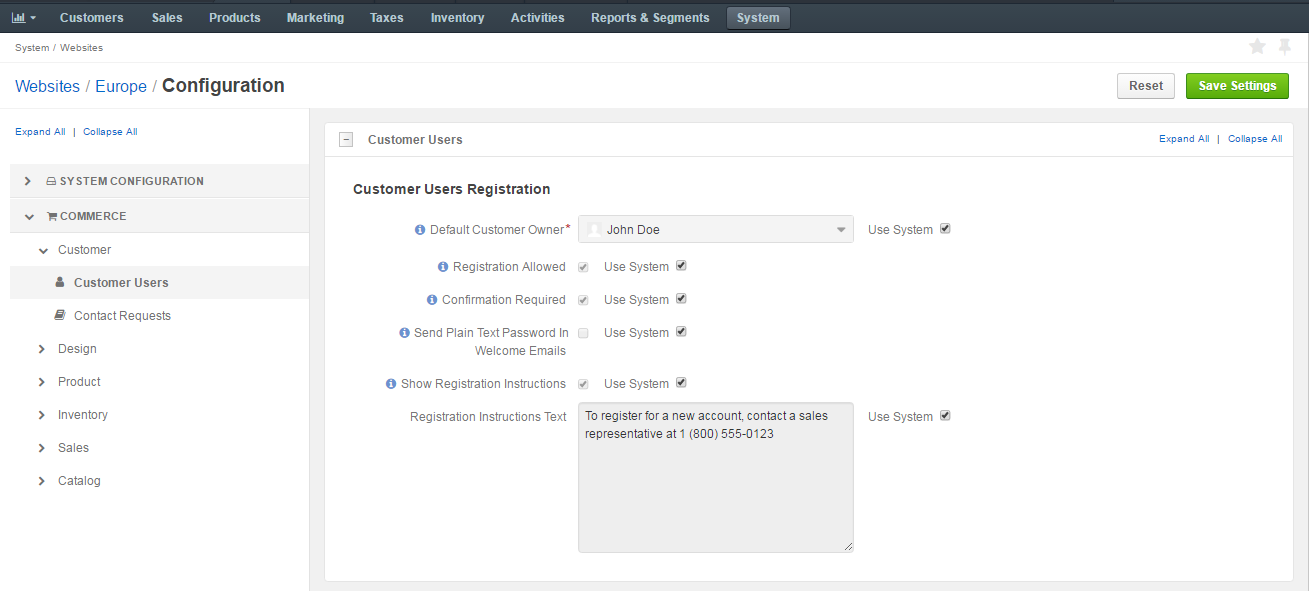
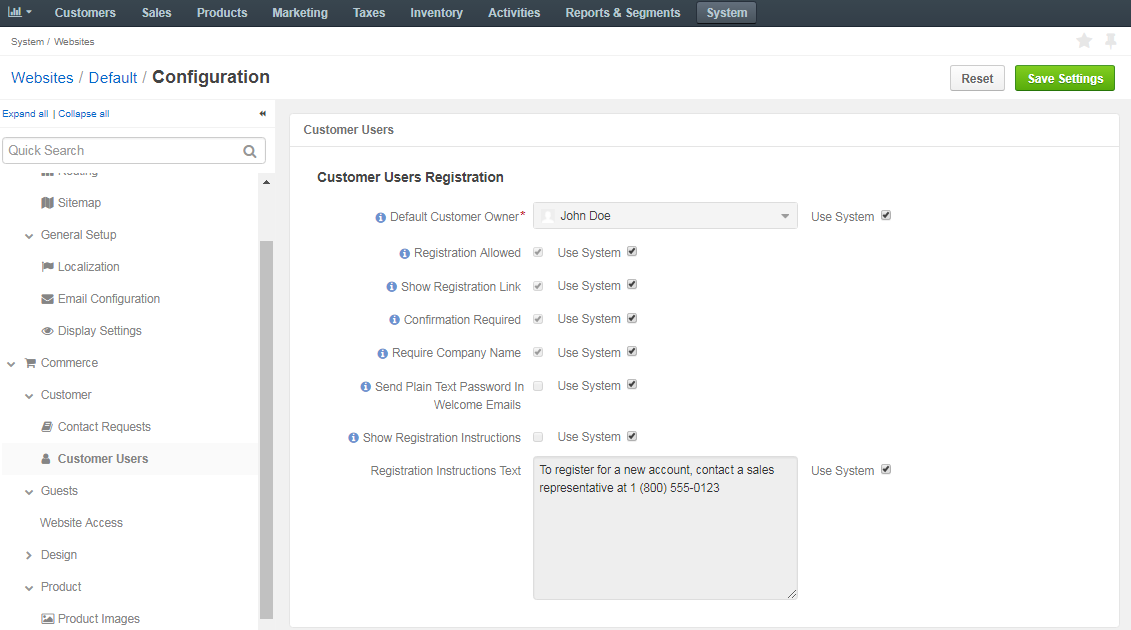
DOC-345: Registration link (#13602)
* DOC-345: Registration link

Updated information in the frontend and configuration sections

* DOC-345: Registration link

*Updated the Created Account section

diff --git a/commerce/user_guide/customers/configuration/website_customer_users.rst b/commerce/user_guide/customers/configuration/website_customer_users.rst
@@ -30,7 +30,11 @@ The following table describes the options available on the page:
    +--------------------------------------------+-----------------------------------------------------------------------------------------------------------------------------------------------------------------------------------------------------------+
    | Registration Allowed                       | Enables/disables new customers registration from the Store Frontend login screen.                                                                                                                         |
    +--------------------------------------------+-----------------------------------------------------------------------------------------------------------------------------------------------------------------------------------------------------------+
+   | Show Registration Link                     | Shows/hides the registration link from the Store Frontend login screen. The link is next to the Sign In link in the top bar.                                                                              |
+   +--------------------------------------------+-----------------------------------------------------------------------------------------------------------------------------------------------------------------------------------------------------------+
    | Confirmation Required                      | Enables/disables email confirmation step after the user registration.                                                                                                                                     |
+   +--------------------------------------------+-----------------------------------------------------------------------------------------------------------------------------------------------------------------------------------------------------------+
+   | Require Company Name                        | Shows/hides the company name field in the registration form in the Store Frontend. Required for the individual customers who do not belong to any company.                                               |
    +--------------------------------------------+-----------------------------------------------------------------------------------------------------------------------------------------------------------------------------------------------------------+
    | Send Plain Text Password In Welcome Emails | Please, disable this option in a production environment. This option is disabled by default.                                                                                                              |
    +--------------------------------------------+-----------------------------------------------------------------------------------------------------------------------------------------------------------------------------------------------------------+
@@ -44,7 +48,7 @@ The following table describes the options available on the page:
      a) Clear the **Use Default** box next to the option.
      b) Select the new option.
 
-4. Click **Save**.
+4. Click **Save Settings**.
 
 .. finish
 

diff --git a/commerce/user_guide/customers/configuration/global_customer_users.rst b/commerce/user_guide/customers/configuration/global_customer_users.rst
@@ -29,7 +29,11 @@ The following page opens:
    +--------------------------------------------+-----------------------------------------------------------------------------------------------------------------------------------------------------------------------------------------------------------+
    | Registration Allowed                       | Enables/disables new customers registration from the Store Frontend login screen.                                                                                                                         |
    +--------------------------------------------+-----------------------------------------------------------------------------------------------------------------------------------------------------------------------------------------------------------+
+   | Show Registration Link                     | Shows/hides the registration link from the Store Frontend login screen. The link is next to the Sign In link in the top bar.                                                                              |
+   +--------------------------------------------+-----------------------------------------------------------------------------------------------------------------------------------------------------------------------------------------------------------+
    | Confirmation Required                      | Enables/disables email confirmation step after the user registration.                                                                                                                                     |
+   +--------------------------------------------+-----------------------------------------------------------------------------------------------------------------------------------------------------------------------------------------------------------+
+   | Require Company Name                       | Shows/hides the company name field in the registration form in the Store Frontend. Required for the individual customers who do not belong to any company.                                                |
    +--------------------------------------------+-----------------------------------------------------------------------------------------------------------------------------------------------------------------------------------------------------------+
    | Send Plain Text Password In Welcome Emails | Please, disable this option in a production environment.                                                                                                                                                  |
    +--------------------------------------------+-----------------------------------------------------------------------------------------------------------------------------------------------------------------------------------------------------------+
@@ -46,7 +50,7 @@ The following page opens:
      a) Clear the **Use Default** box next to the option.
      b) Select the new option.
 
-4. Click **Save**.
+4. Click **Save Settings**.
 
 
 .. finish 

diff --git a/commerce/frontstore_guide/getting_started/create_account.rst b/commerce/frontstore_guide/getting_started/create_account.rst
@@ -7,19 +7,19 @@ Create Account
 
 First things first, you need to create a new account to be able to work with the store:
 
-1. On the website landing page, click **Sign In** in the top left corner.
+1. On the website landing page, click **Register** in the top left corner.
 
-   .. image:: /frontstore_guide/img/SignIn.png
+   .. image:: /frontstore_guide/img/registration_link_1.png
 
-2. Click **Create an Account** at the bottom of the form.
+.. note:: In case there is no such link in the top left corner, which depends on the configuration, click **Sign In** instead. Then, click **Create an Account** at the bottom of the form.
 
-   .. image:: /frontstore_guide/img/CreateAcc.png
+   .. image:: /frontstore_guide/img/navigation/registration_link_3.png
 
    The following page opens:
 
    .. image:: /frontstore_guide/img/CreateAccForm.png
 
-3. Enter the required details in the provided fields. All fields are mandatory:
+2. Enter the required details in the provided fields. All fields are mandatory:
 
    * Company Name
    * First Name
@@ -30,6 +30,6 @@ First things first, you need to create a new account to be able to work with the
 
    .. note:: The password must include an upper case letter and a number.
 
-4. Once the details have been provided, click **Create an Account**. A sales representative may contact you shortly to proceed with registration. Check your email to complete registration.
+3. Once the details have been provided, click **Create an Account**. A sales representative may contact you shortly to proceed with registration. Check your email to complete registration.
 
 .. finish

diff --git a/commerce/frontstore_guide/navigation/index.rst b/commerce/frontstore_guide/navigation/index.rst
@@ -44,9 +44,9 @@ User Menu is located on the top left of the page and contains the following sect
 
 **For non-authenticated user (guest):**
 
-1. The **Sign In** button.
+1. The **Sign In** and **Register** buttons.
 
-   .. image:: /frontstore_guide/img/navigation/GeneralLayoutUserMenu0.png
+   .. image:: /frontstore_guide/img/navigation/registration_link_2.png
 
 **For a user that has signed in:**
 
